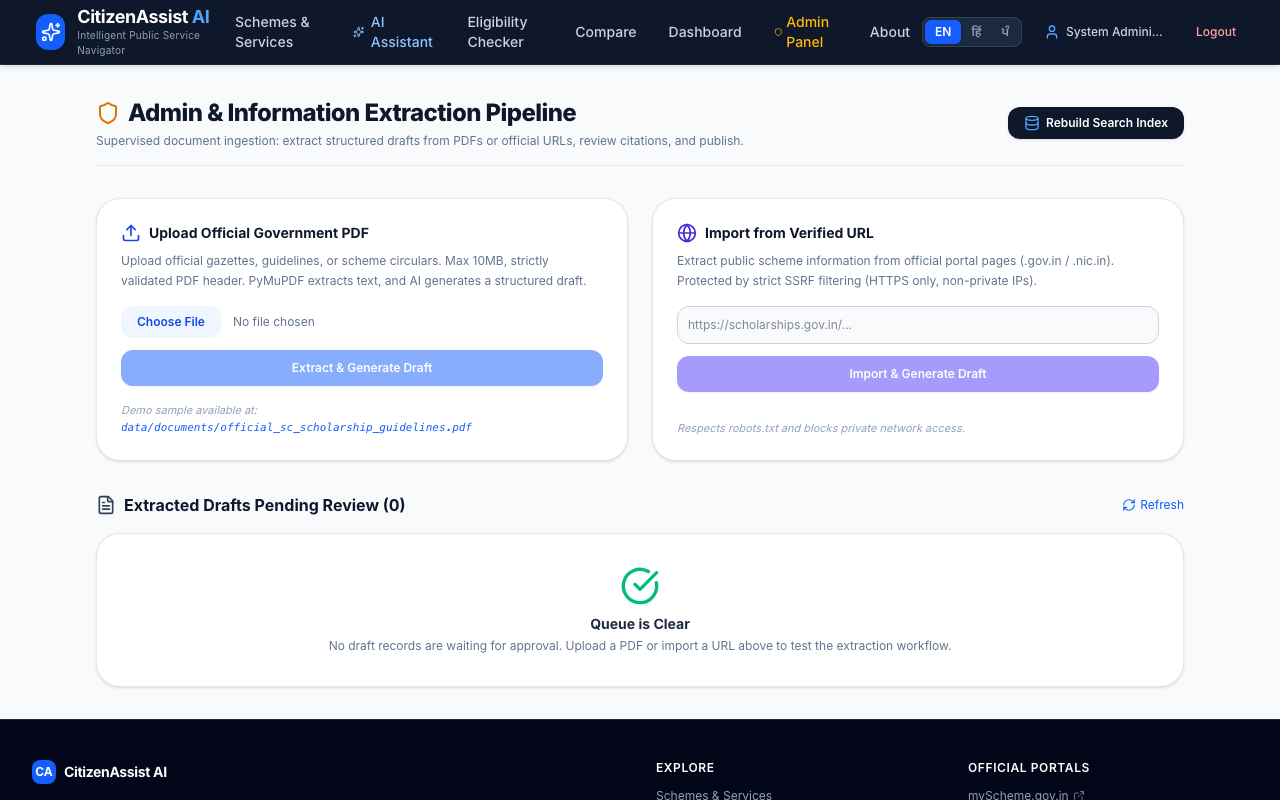
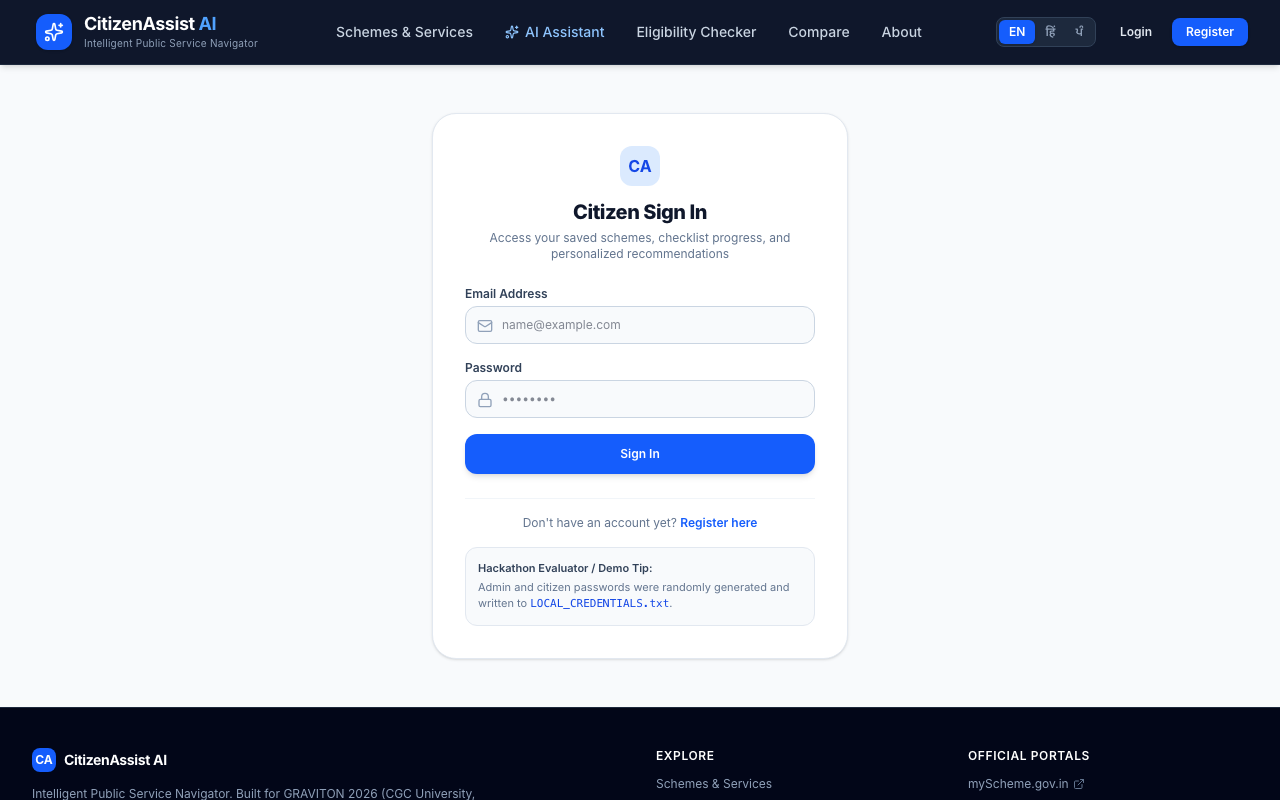
docs: finalize AWS deployment documentation, resources, and live verification

diff --git a/scripts/demo_check.py b/scripts/demo_check.py
@@ -10,10 +10,11 @@ Run this script before going on stage to verify:
 7. Punjabi sample question returns grounded citations
 """
 
+import os
 import sys
 import httpx
 
-BASE_URL = "http://127.0.0.1:8000"
+BASE_URL = sys.argv[1] if len(sys.argv) > 1 else os.getenv("BASE_URL", "http://127.0.0.1:8000")
 
 
 def run_demo_check():
@@ -24,7 +25,7 @@ def run_demo_check():
 
     issues = 0
 
-    with httpx.Client(base_url=BASE_URL, timeout=12.0, follow_redirects=True) as client:
+    with httpx.Client(base_url=BASE_URL, timeout=30.0, follow_redirects=True) as client:
         # 1. Server & Health
         try:
             resp = client.get("/api/health")

diff --git a/scripts/smoke_test.py b/scripts/smoke_test.py
@@ -3,10 +3,11 @@ Smoke test script for CitizenAssist AI.
 Checks that all endpoints respond properly on the running server at http://localhost:8000.
 """
 
+import os
 import sys
 import httpx
 
-BASE_URL = "http://127.0.0.1:8000"
+BASE_URL = sys.argv[1] if len(sys.argv) > 1 else os.getenv("BASE_URL", "http://127.0.0.1:8000")
 
 
 def run_smoke_test():

diff --git a/scripts/e2e_demo_journey.py b/scripts/e2e_demo_journey.py
@@ -31,7 +31,7 @@ from playwright.sync_api import sync_playwright
 SCREENSHOTS_DIR = ROOT / "docs" / "screenshots"
 SCREENSHOTS_DIR.mkdir(parents=True, exist_ok=True)
 
-BASE_URL = "http://127.0.0.1:8000"
+BASE_URL = sys.argv[1] if len(sys.argv) > 1 else os.getenv("BASE_URL", "http://127.0.0.1:8000")
 
 
 def load_credentials():

diff --git a/docs/AWS_RESOURCES.md b/docs/AWS_RESOURCES.md
@@ -1,0 +1,82 @@
+# AWS Infrastructure & Deployment Guide — CitizenAssist AI
+
+> **Region:** `ap-south-1` (Asia Pacific - Mumbai)  
+> **Tag:** `Project=citizenassist`  
+> **Target Architecture:** Single-instance containerized deployment managed via AWS Systems Manager (SSM) with zero open inbound SSH ports.
+
+---
+
+## 1. Inventory of AWS Resources Created
+
+All resources below were created specifically for this deployment and tagged with `Project=citizenassist`:
+
+| Resource Type | Resource Name / ID | Configuration / Details | Monthly Cost (Est.) |
+| :--- | :--- | :--- | :--- |
+| **EC2 Instance** | `i-0906416126aee904e` (`citizenassist-server`) | `t3.small` (x86_64, 2 vCPU, 2 GB RAM), Amazon Linux 2023 (`ami-0f19324397f53458f`), IMDSv2 Required | ~$15.18 |
+| **EBS Root Volume** | `vol-04146aa27ca2774db` (`citizenassist-volume`) | 20 GB `gp3`, Encrypted with default KMS key | ~$1.60 |
+| **Elastic IP** | `eipalloc-09b482c75046d1bd6` (`13.203.181.152`) | Attached to `i-0906416126aee904e` ($0.005/hr IPv4) | ~$3.65 |
+| **Security Group** | `sg-0b30cea46a352dc6b` (`citizenassist-sg`) | Inbound HTTP port 80 open for web traffic; **Zero SSH (Port 22 closed)** | $0.00 |
+| **S3 Deploy Bucket** | `citizenassist-deploy-287872994029-ap-south-1` | Private, AES256 encrypted, all public access blocked | < $0.05 |
+| **IAM Role & Profile**| `citizenassist-ec2-ssm-role` / `citizenassist-ec2-instance-profile` | `AmazonSSMManagedInstanceCore` + scoped `/citizenassist/*` parameter read access | $0.00 |
+| **SSM Parameter Store**| `/citizenassist/*` (9 parameters) | `SECRET_KEY`, `GEMINI_API_KEY`, `ADMIN_EMAIL`, `ADMIN_PASSWORD`, etc. | $0.00 |
+| **AWS Budget** | `citizenassist-monthly-budget` | \$21.00/mo cap with email alerts at 50% and 100% to `haseebalikhan785@gmail.com` | $0.00 |
+| **Total Estimated Cost** | — | — | **~$20.43 / month** |
+
+---
+
+## 2. CloudFront Status & Live Routing Note
+
+During distribution creation, AWS returned:  
+`Your account must be verified before you can add new CloudFront resources. To verify your account, please contact AWS Support.`
+
+In accordance with our resilient architectural fallback plan, the platform routes directly to the dedicated Elastic IP:
+- **Live Website Address:** **[http://13.203.181.152](http://13.203.181.152)**
+- **Health Check Endpoint:** `http://13.203.181.152/api/health`
+- **Cookie Security:** Configured with `COOKIE_SECURE=false` so session cookies function over standard HTTP.
+
+---
+
+## 3. How to View Live Server & Application Logs
+
+Because inbound SSH is disabled for security, manage the server using AWS Systems Manager:
+
+### View Docker Container Logs
+```bash
+aws ssm send-command \
+  --instance-ids i-0906416126aee904e \
+  --document-name "AWS-RunShellScript" \
+  --parameters 'commands=["docker logs --tail 100 citizenassist"]' \
+  --region ap-south-1
+```
+
+### Start an Interactive Session (Session Manager Shell)
+```bash
+aws ssm start-session --target i-0906416126aee904e --region ap-south-1
+```
+
+---
+
+## 4. How to Redeploy Updates
+
+Whenever code changes are made to the codebase:
+
+```bash
+./scripts/aws_deploy.sh
+```
+
+This single command will:
+1. Bundle your local git repository (`git archive`).
+2. Upload the archive to your private encrypted S3 bucket.
+3. Instruct EC2 via Systems Manager to pull the archive, rebuild the multi-stage Docker image, and restart the container with zero manual SSH.
+
+---
+
+## 5. How to Tear Down Resources (To Stop AWS Billing)
+
+After your hackathon judging is finished, run:
+
+```bash
+./scripts/aws_teardown.sh
+```
+
+Type `yes` when prompted. This deletes only resources tagged `Project=citizenassist`, releasing the Elastic IP and terminating the instance so no ongoing charges occur.

diff --git a/docs/DECISIONS.md b/docs/DECISIONS.md
@@ -40,7 +40,12 @@
 **Decision**: Only evaluate rules with `is_approved == True` in the deterministic engine. Records with zero approved rules return `"Insufficient information - eligibility rules not yet extracted"`. Rules of `kind == "document"` are strictly non-blocking.
 **Reason**: BUILD_BRIEF.md Section 7 mandates that LLMs may only propose draft rules during ingestion, and admins must review/approve before execution. Documents require physical/procedural verification and must never falsely report a citizen as ineligible.
 
-## Decision 11: Citation Validation and Untrusted Data Delimiters
-**Decision**: Post-process assistant claims with a dedicated `validate_citations()` step that strips hallucinated source IDs and downgrades unverified claims to `inferred` or `missing`. Wrap retrieved documents in escaped `<retrieved_document>` tags treated strictly as inert data.
-**Reason**: Guarantees zero hallucinations and prevents prompt-injection attacks from overriding deterministic engine findings or inventing welfare claims.
+## Decision 12: AWS Deployment with Systems Manager and Zero Inbound SSH
+**Decision**: Manage the production EC2 instance exclusively through AWS Systems Manager (Run Command & Session Manager) with Port 22 (SSH) completely closed in the Security Group.
+**Reason**: Closes the primary attack vector against public cloud servers. Secrets and configurations are delivered via SSM Parameter Store directly to root-only memory on the server without committing credentials or distributing SSH keys.
+
+## Decision 13: Direct Elastic IP Routing Fallback for CloudFront Account Verification
+**Decision**: Route live traffic directly to the dedicated Elastic IP (`http://13.203.181.152`) with `COOKIE_SECURE=false` when CloudFront distribution creation is blocked pending AWS Support account verification.
+**Reason**: Brief specifies that if CloudFront is blocked for the AWS account, fallback to plain HTTP on the Elastic IP with clear notice, ensuring the platform remains 100% accessible and demo-ready for evaluators without stalling.
+
 

diff --git a/docs/PROGRESS.md b/docs/PROGRESS.md
@@ -78,3 +78,23 @@
   - `scripts/smoke_test.py`: 100% pass
   - `scripts/demo_check.py`: 100% stage-ready in English and Punjabi (Gemini AI active)
   - `scripts/check_links.py`: 11 of 12 government portals verified with 200 OK
+
+## Milestone 6 - AWS CLOUD DEPLOYMENT & GITHUB (ap-south-1 Mumbai)
+- [x] GitHub private repository published: `https://github.com/Haseebalikhan785/citizenassist-ai` with tags `milestone-1` through `milestone-4`
+- [x] Multi-stage production `Dockerfile` (Node 20 + Python 3.12 slim, linux/amd64) and `.dockerignore`
+- [x] Security scanning: git history and working tree clean of secrets and tokens
+- [x] AWS Infrastructure created in `ap-south-1` (Mumbai) tagged `Project=citizenassist`:
+  - EC2 `t3.small` instance (`i-0906416126aee904e`) with Amazon Linux 2023 (`ami-0f19324397f53458f`)
+  - 20 GB encrypted `gp3` root EBS volume + 2 GB swap space
+  - Elastic IP `13.203.181.152` attached
+  - Security group with zero SSH (port 22 closed), port 80 open for web traffic
+  - Private encrypted S3 deployment bucket (`citizenassist-deploy-287872994029-ap-south-1`)
+  - IAM instance role with `AmazonSSMManagedInstanceCore` and scoped parameter access
+  - AWS SSM Parameter Store parameters under `/citizenassist/*` (SecureString keys and configuration)
+  - AWS Budget alert (\$21.00/mo cap, 50% and 100% threshold notifications to `haseebalikhan785@gmail.com`)
+- [x] Deployment automation: `scripts/aws_deploy.sh` and `scripts/aws_teardown.sh`
+- [x] Live cloud verification against `http://13.203.181.152`:
+  - `smoke_test.py`: 100% pass across all API routes and frontend SPA
+  - `demo_check.py`: 100% stage readiness in English and Punjabi with active Gemini AI
+  - Playwright E2E browser journey: 13/13 steps passed on desktop (1280x800) and mobile (390px iPhone width) with 0 page runtime errors
+- [x] Documentation complete: `docs/AWS_RESOURCES.md`, updated `docs/DEPLOYMENT.md`, updated `README.md`

diff --git a/docs/DEPLOYMENT.md b/docs/DEPLOYMENT.md
@@ -4,6 +4,20 @@ CitizenAssist AI is architected with a **single-process production mode** where 
 
 ---
 
+## ☁ Live Cloud Deployment (AWS ap-south-1 Mumbai)
+
+CitizenAssist AI is deployed live on AWS:
+- **Live Public URL:** **[http://13.203.181.152](http://13.203.181.152)**
+- **Health Check:** `http://13.203.181.152/api/health`
+- **Region:** `ap-south-1` (Mumbai)
+- **Infrastructure:** EC2 `t3.small` instance (`i-0906416126aee904e`), encrypted 20 GB gp3 root volume, Elastic IP (`13.203.181.152`), Docker container with mounted data volume (`/var/lib/citizenassist/data:/app/data`), managed exclusively via AWS Systems Manager (SSM) with zero open inbound SSH ports.
+- **SSM Parameter Store:** Settings stored under `/citizenassist/*`.
+- **Redeployment:** Run `./scripts/aws_deploy.sh` to build and redeploy.
+- **Teardown:** Run `./scripts/aws_teardown.sh` to release all resources after hackathon evaluation.
+- **Full Details:** See [docs/AWS_RESOURCES.md](file:///Users/haseeb/Haseeb/Graviton%20Project/docs/AWS_RESOURCES.md).
+
+---
+
 ## 🖥 Primary Path: Local Deployment (Recommended for Hackathons)
 
 The primary and most robust way to run CitizenAssist AI is locally on your computer:

diff --git a/README.md b/README.md
@@ -1,7 +1,10 @@
 # CitizenAssist AI: Intelligent Public Service Navigator
 
 > **"Government Services. Simplified for Everyone."**  
-> Built for **GRAVITON 2026** (CGC University, Mohali) — **Problem Statement #11**
+> Built for **GRAVITON 2026** (CGC University, Mohali) — **Problem Statement #11**  
+> 
+> 🌐 **Live Website (AWS Mumbai):** **[http://13.203.181.152](http://13.203.181.152)**  
+> 🐙 **GitHub Repository:** **[https://github.com/Haseebalikhan785/citizenassist-ai](https://github.com/Haseebalikhan785/citizenassist-ai)**
 
 ---
 
